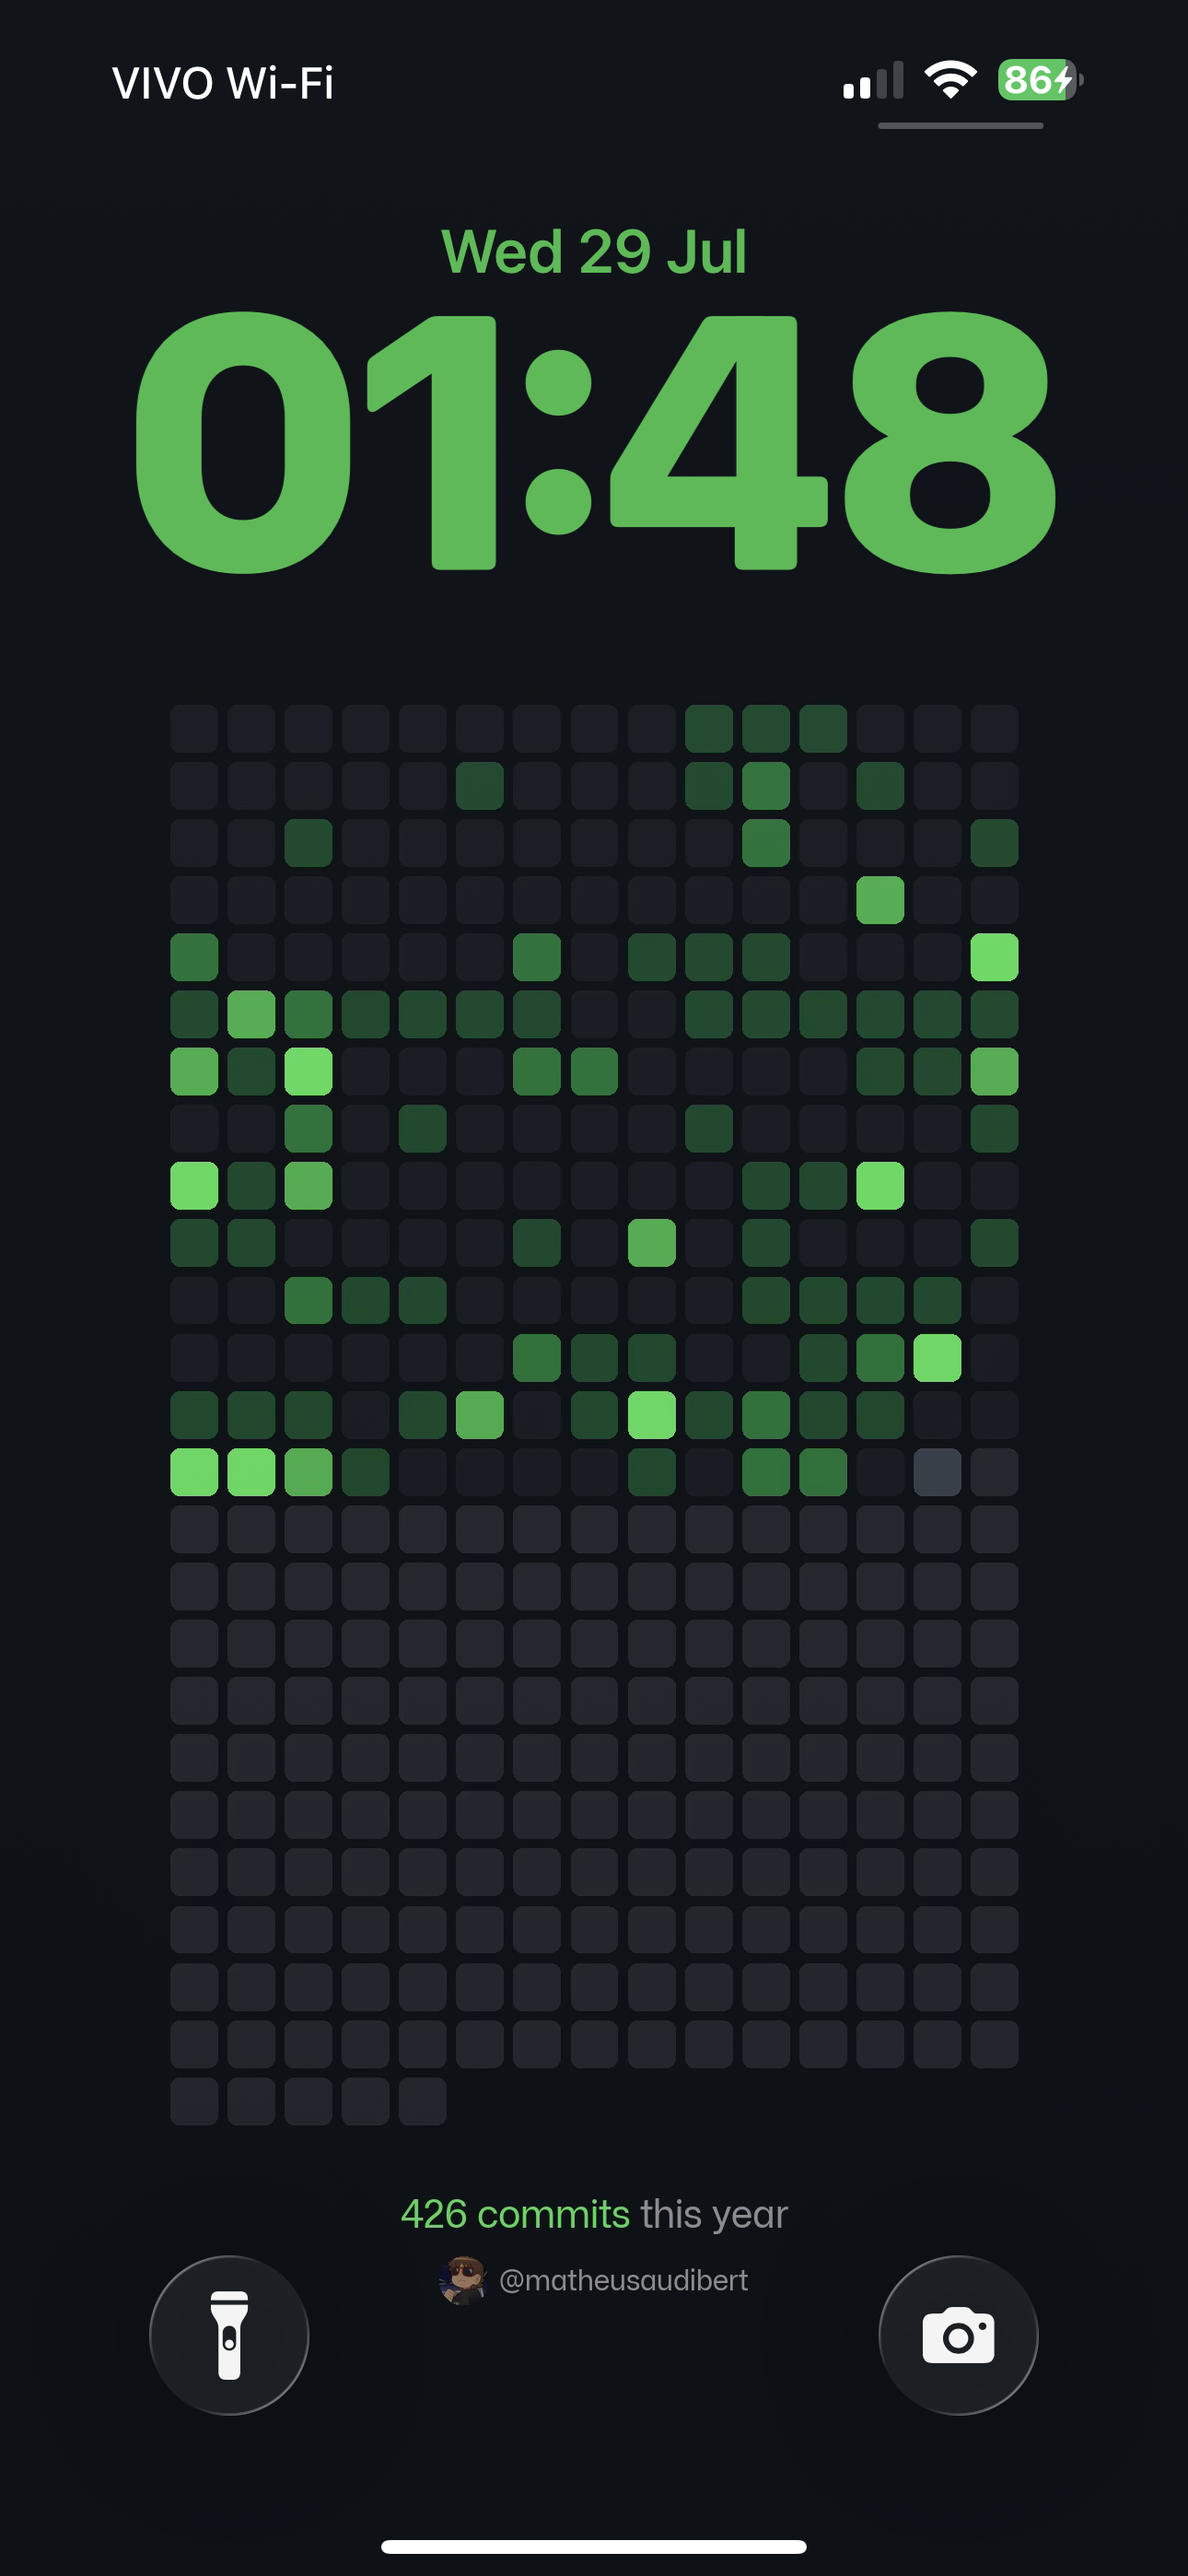
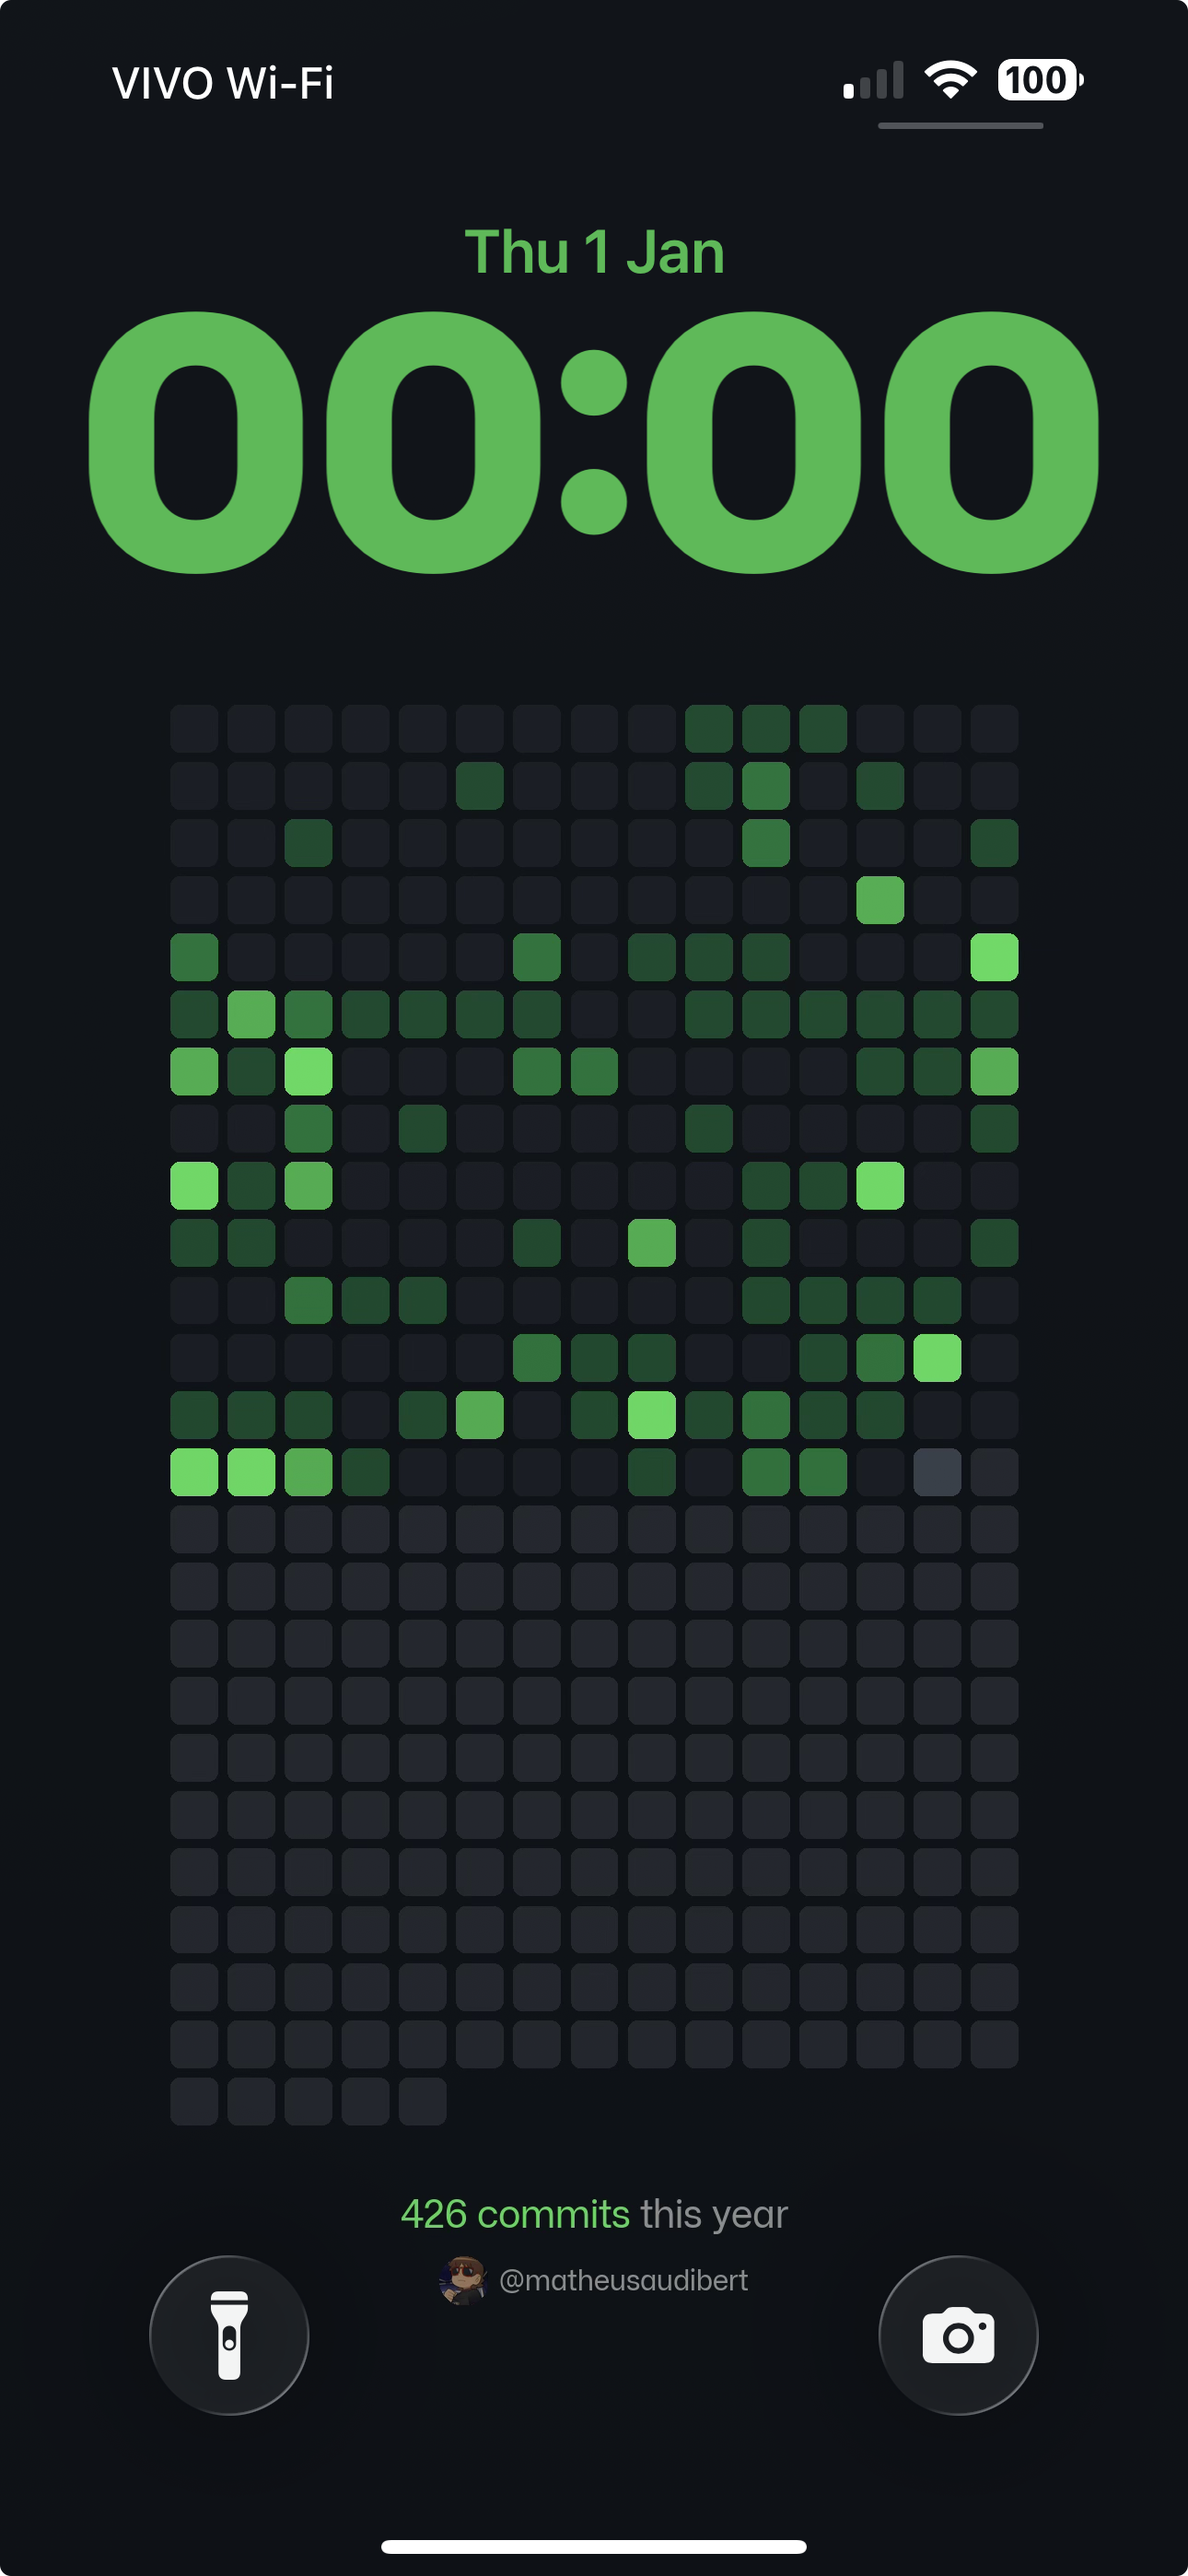
Add phone_3.png image to public directory

Changed region(s): [[0.062, 0.0933, 0.9302, 0.2489], [0.8372, 0.0, 0.8992, 0.0622], [0.9922, 0.9957, 1.0, 1.0]]

diff --git a/app/page.tsx b/app/page.tsx
@@ -22,8 +22,8 @@ const DEFAULT_HEIGHT = 2556;
 
 const SHOWCASE_EXAMPLES = [
   "/phone_1.png",
-  "/phone_1.png",
-  "/phone_1.png",
+  "/phone_2.png",
+  "/phone_3.png",
 ];
 
 export default function Home() {
